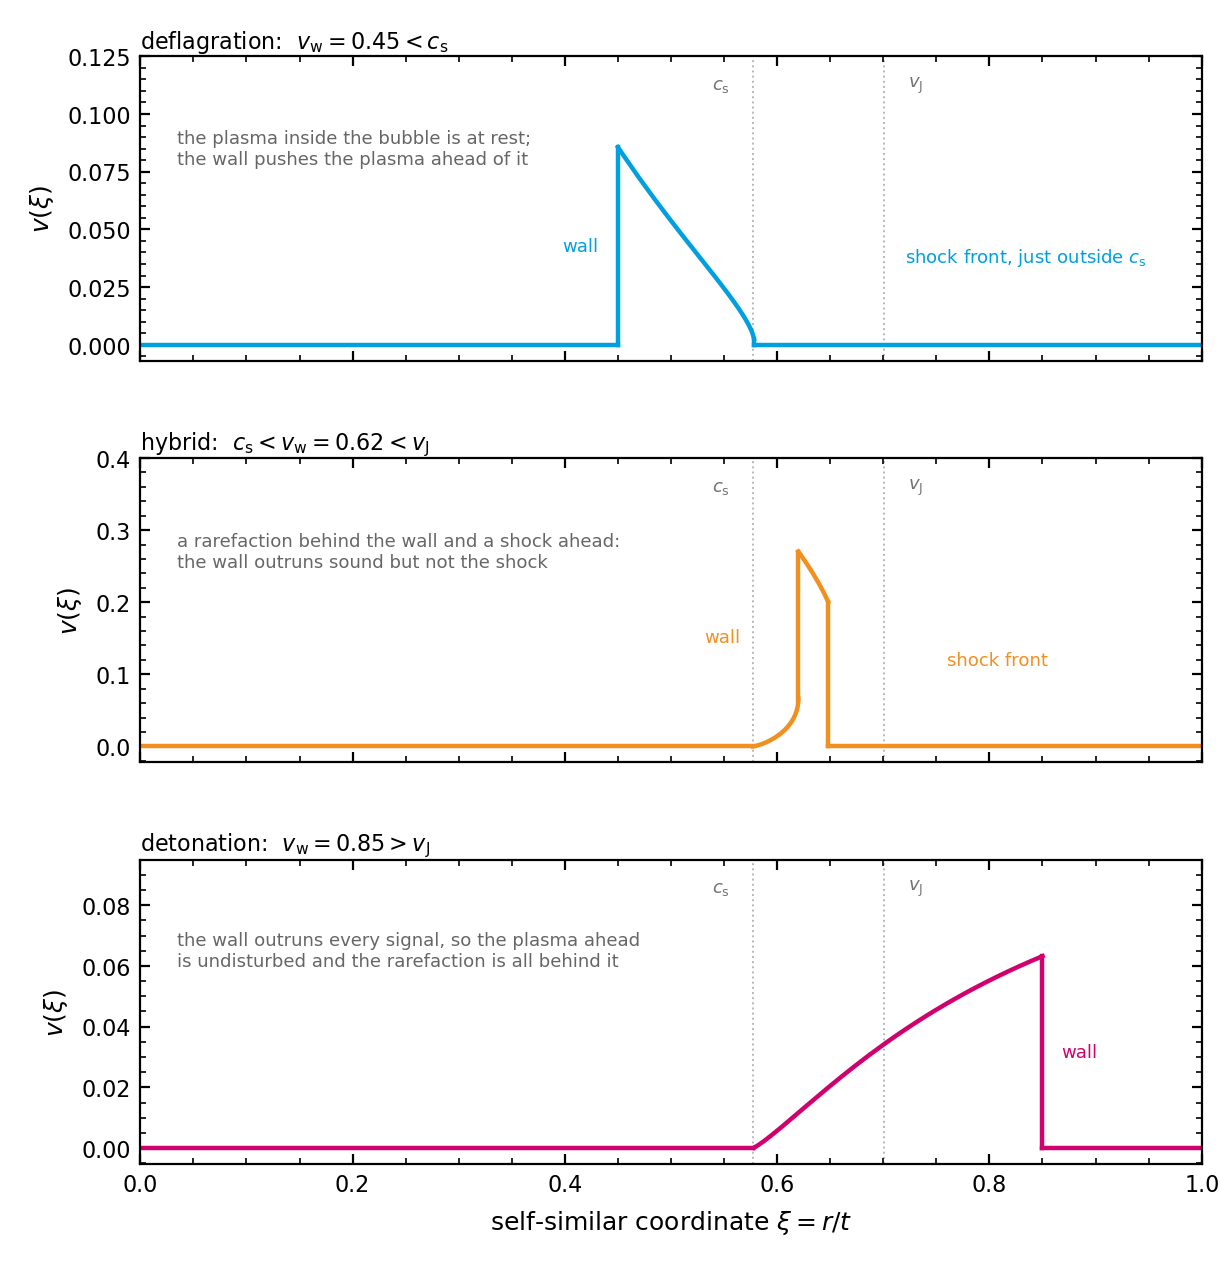
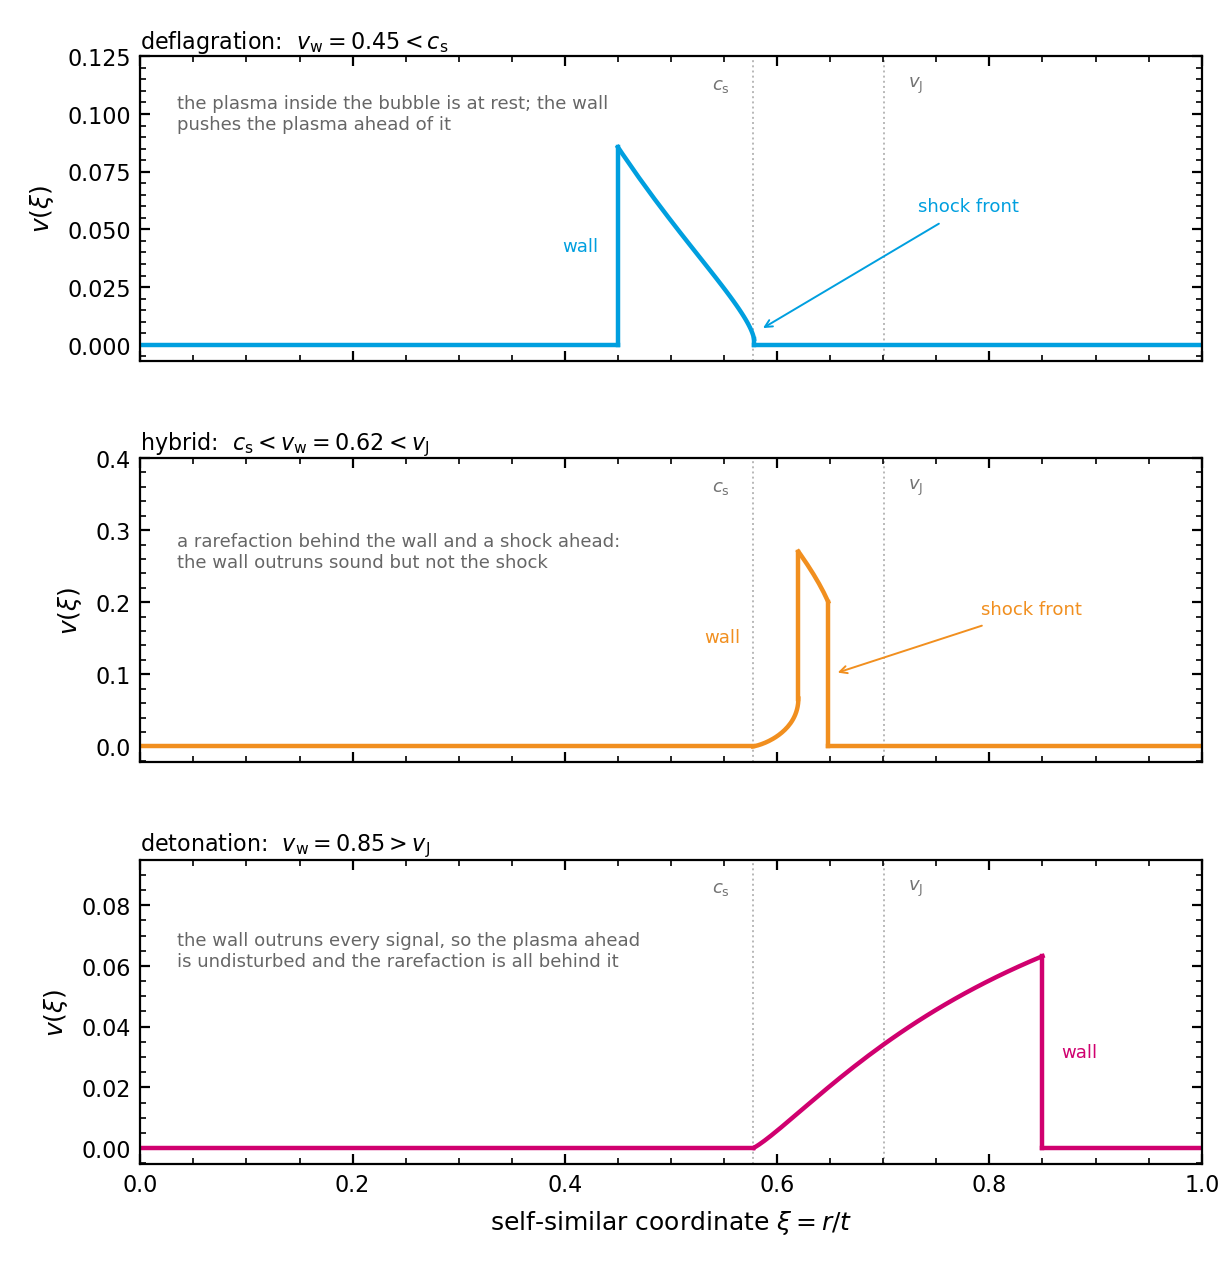
Point the shock labels at their shocks

diff --git a/docs/make_algorithm_figures.py b/docs/make_algorithm_figures.py
@@ -578,13 +578,15 @@ def figure_fluid_profiles() -> None:
     frame(a0, 0.125)
     a0.set_title(r"deflagration:  $v_\mathrm{w} = %.2f < c_\mathrm{s}$" % vw_d,
                  fontsize=8, pad=3, loc="left")
-    a0.text(0.035, 0.085, "the plasma inside the bubble is at rest;\n"
-                          "the wall pushes the plasma ahead of it", color="0.40",
+    a0.text(0.035, 0.100, "the plasma inside the bubble is at rest; the wall\n"
+                          "pushes the plasma ahead of it", color="0.40",
             fontsize=6.5, ha="left", va="center")
     a0.text(vw_d - 0.018, 0.5 * v_d, "wall", color=DESYcyan, fontsize=6.5, ha="right",
             va="center")
-    a0.text(0.72, 0.038, "shock front, just outside $c_\\mathrm{s}$", color=DESYcyan,
-            fontsize=6.5, ha="left", va="center")
+    a0.annotate("shock front",
+                xy=(xi_d[-1] + 0.004, 0.006), xytext=(0.78, 0.060),
+                color=DESYcyan, fontsize=6.5, ha="center", va="center",
+                arrowprops=dict(arrowstyle="->", color=DESYcyan, lw=0.7))
 
     # hybrid
     a1 = axes[1]
@@ -602,8 +604,10 @@ def figure_fluid_profiles() -> None:
             fontsize=6.5, ha="left", va="center")
     a1.text(vw_h - 0.055, 0.56 * v_ha, "wall", color=DESYorange, fontsize=6.5,
             ha="right", va="center")
-    a1.text(0.76, 0.12, "shock front", color=DESYorange, fontsize=6.5, ha="left",
-            va="center")
+    a1.annotate("shock front", xy=(xi_ha[-1] + 0.004, 0.10),
+                xytext=(0.84, 0.19), color=DESYorange, fontsize=6.5,
+                ha="center", va="center",
+                arrowprops=dict(arrowstyle="->", color=DESYorange, lw=0.7))
 
     # detonation
     a2 = axes[2]
